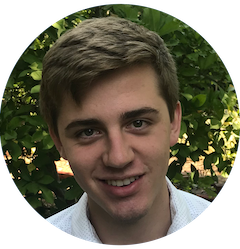
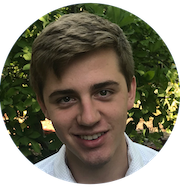
Resize profile pic again.

diff --git a/index.html b/index.html
@@ -35,7 +35,7 @@
     <!-- ******HEADER****** -->
     <header class="header">
         <div class="container clearfix">
-            <!-- <img class="profile-image img-fluid float-left" src="assets/images/profile.png" alt="Miklos Bowling" /> -->
+            <img class="profile-image img-fluid float-left" src="assets/images/profile.png" alt="Miklos Bowling" />
             <div class="profile-content float-left">
                 <h1 class="name">Miklos Bowling</h1>
                 <h2 class="desc">Developer</h2>
